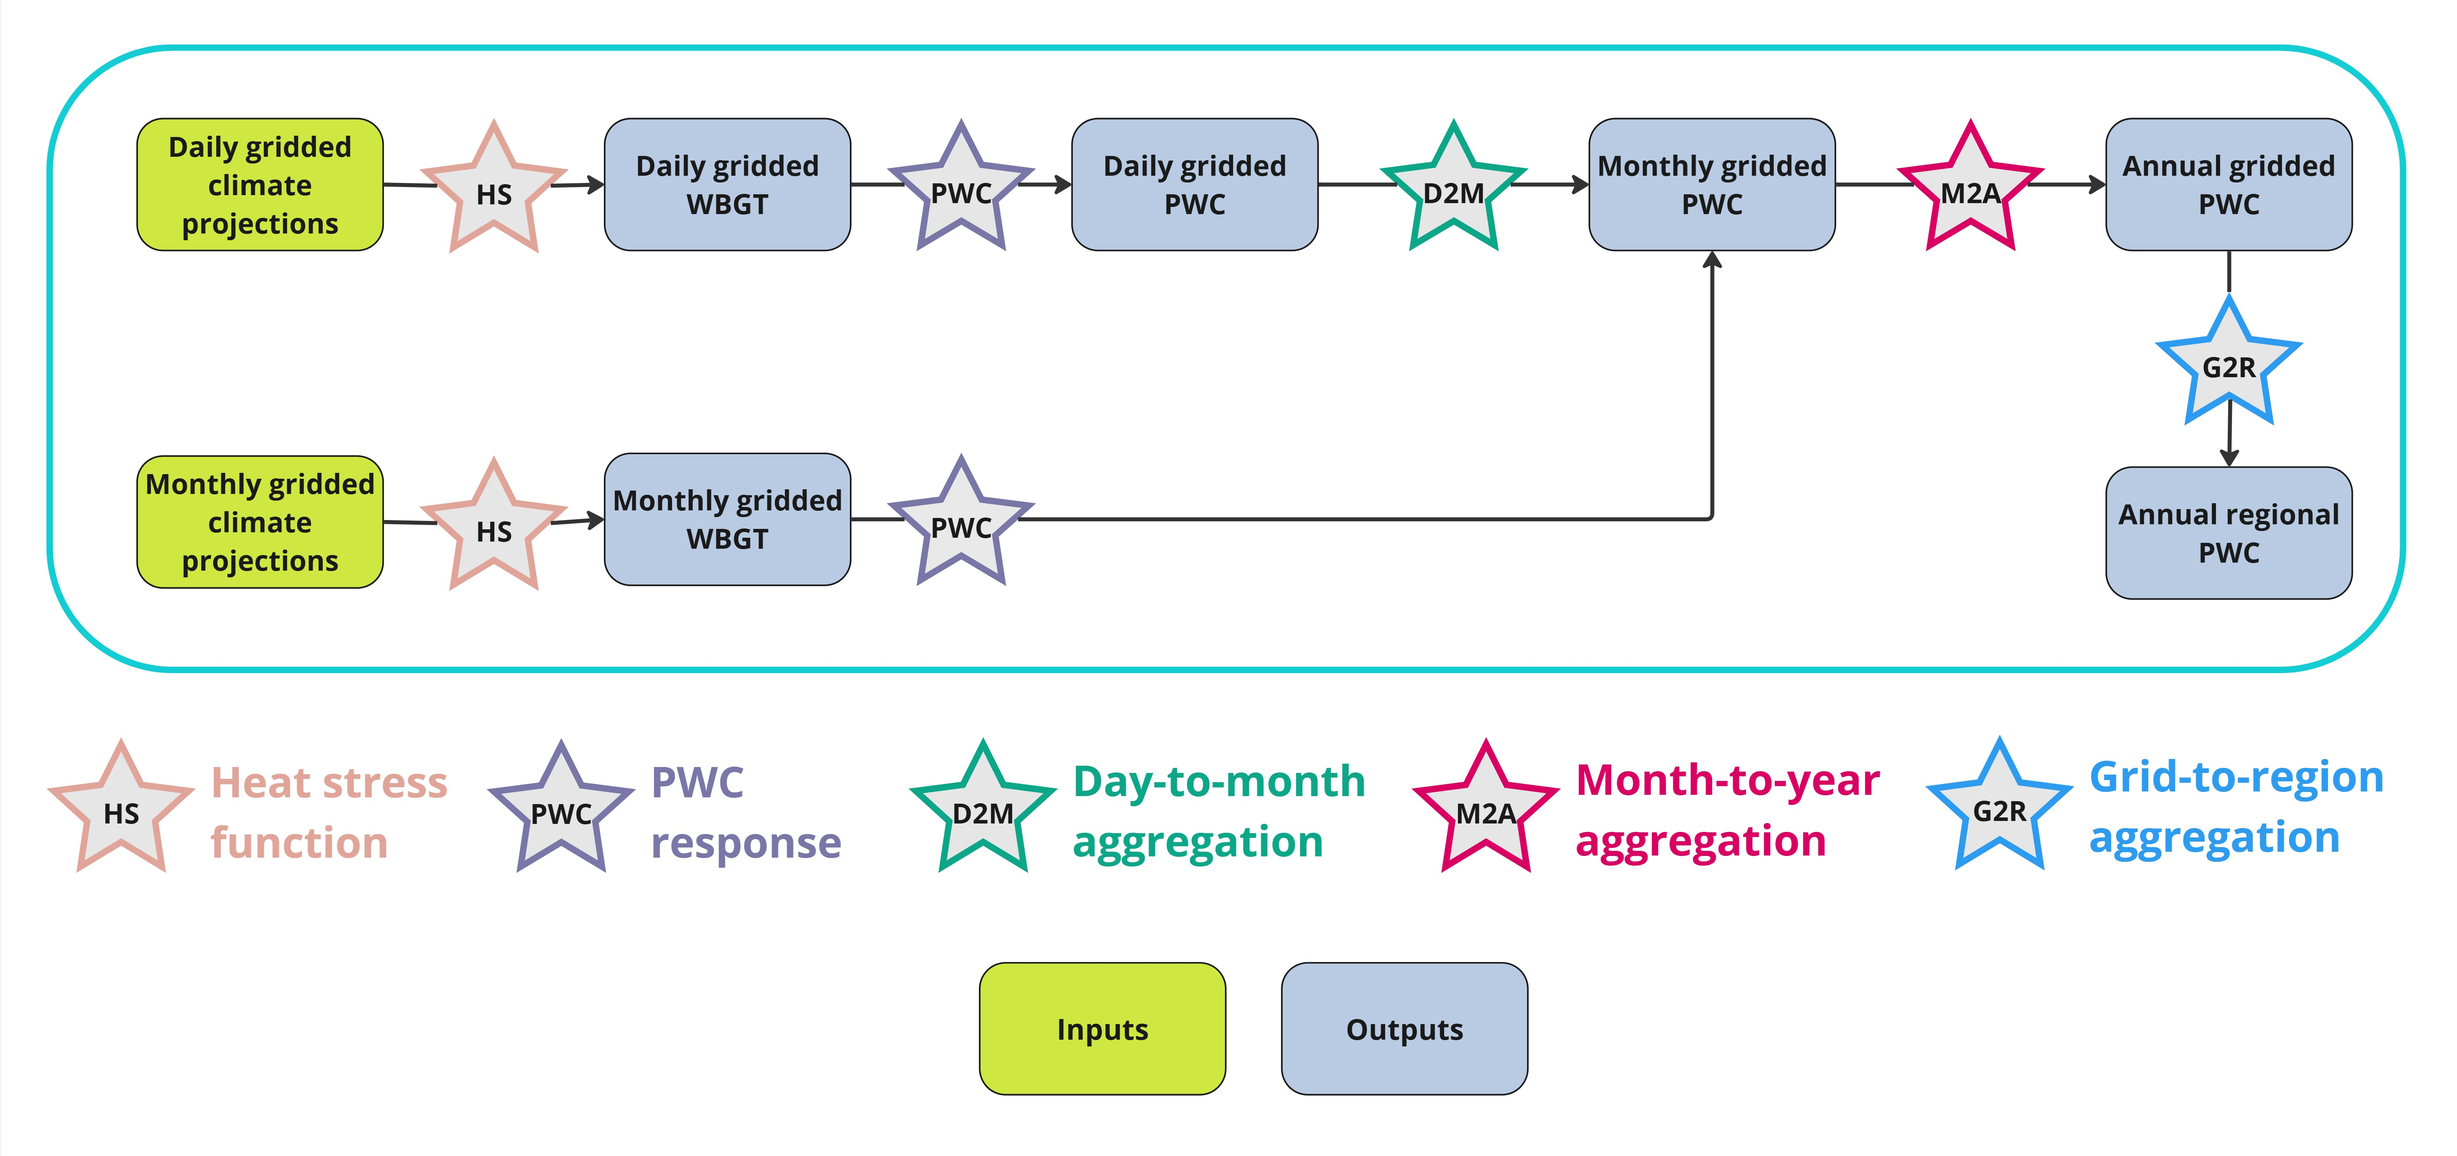
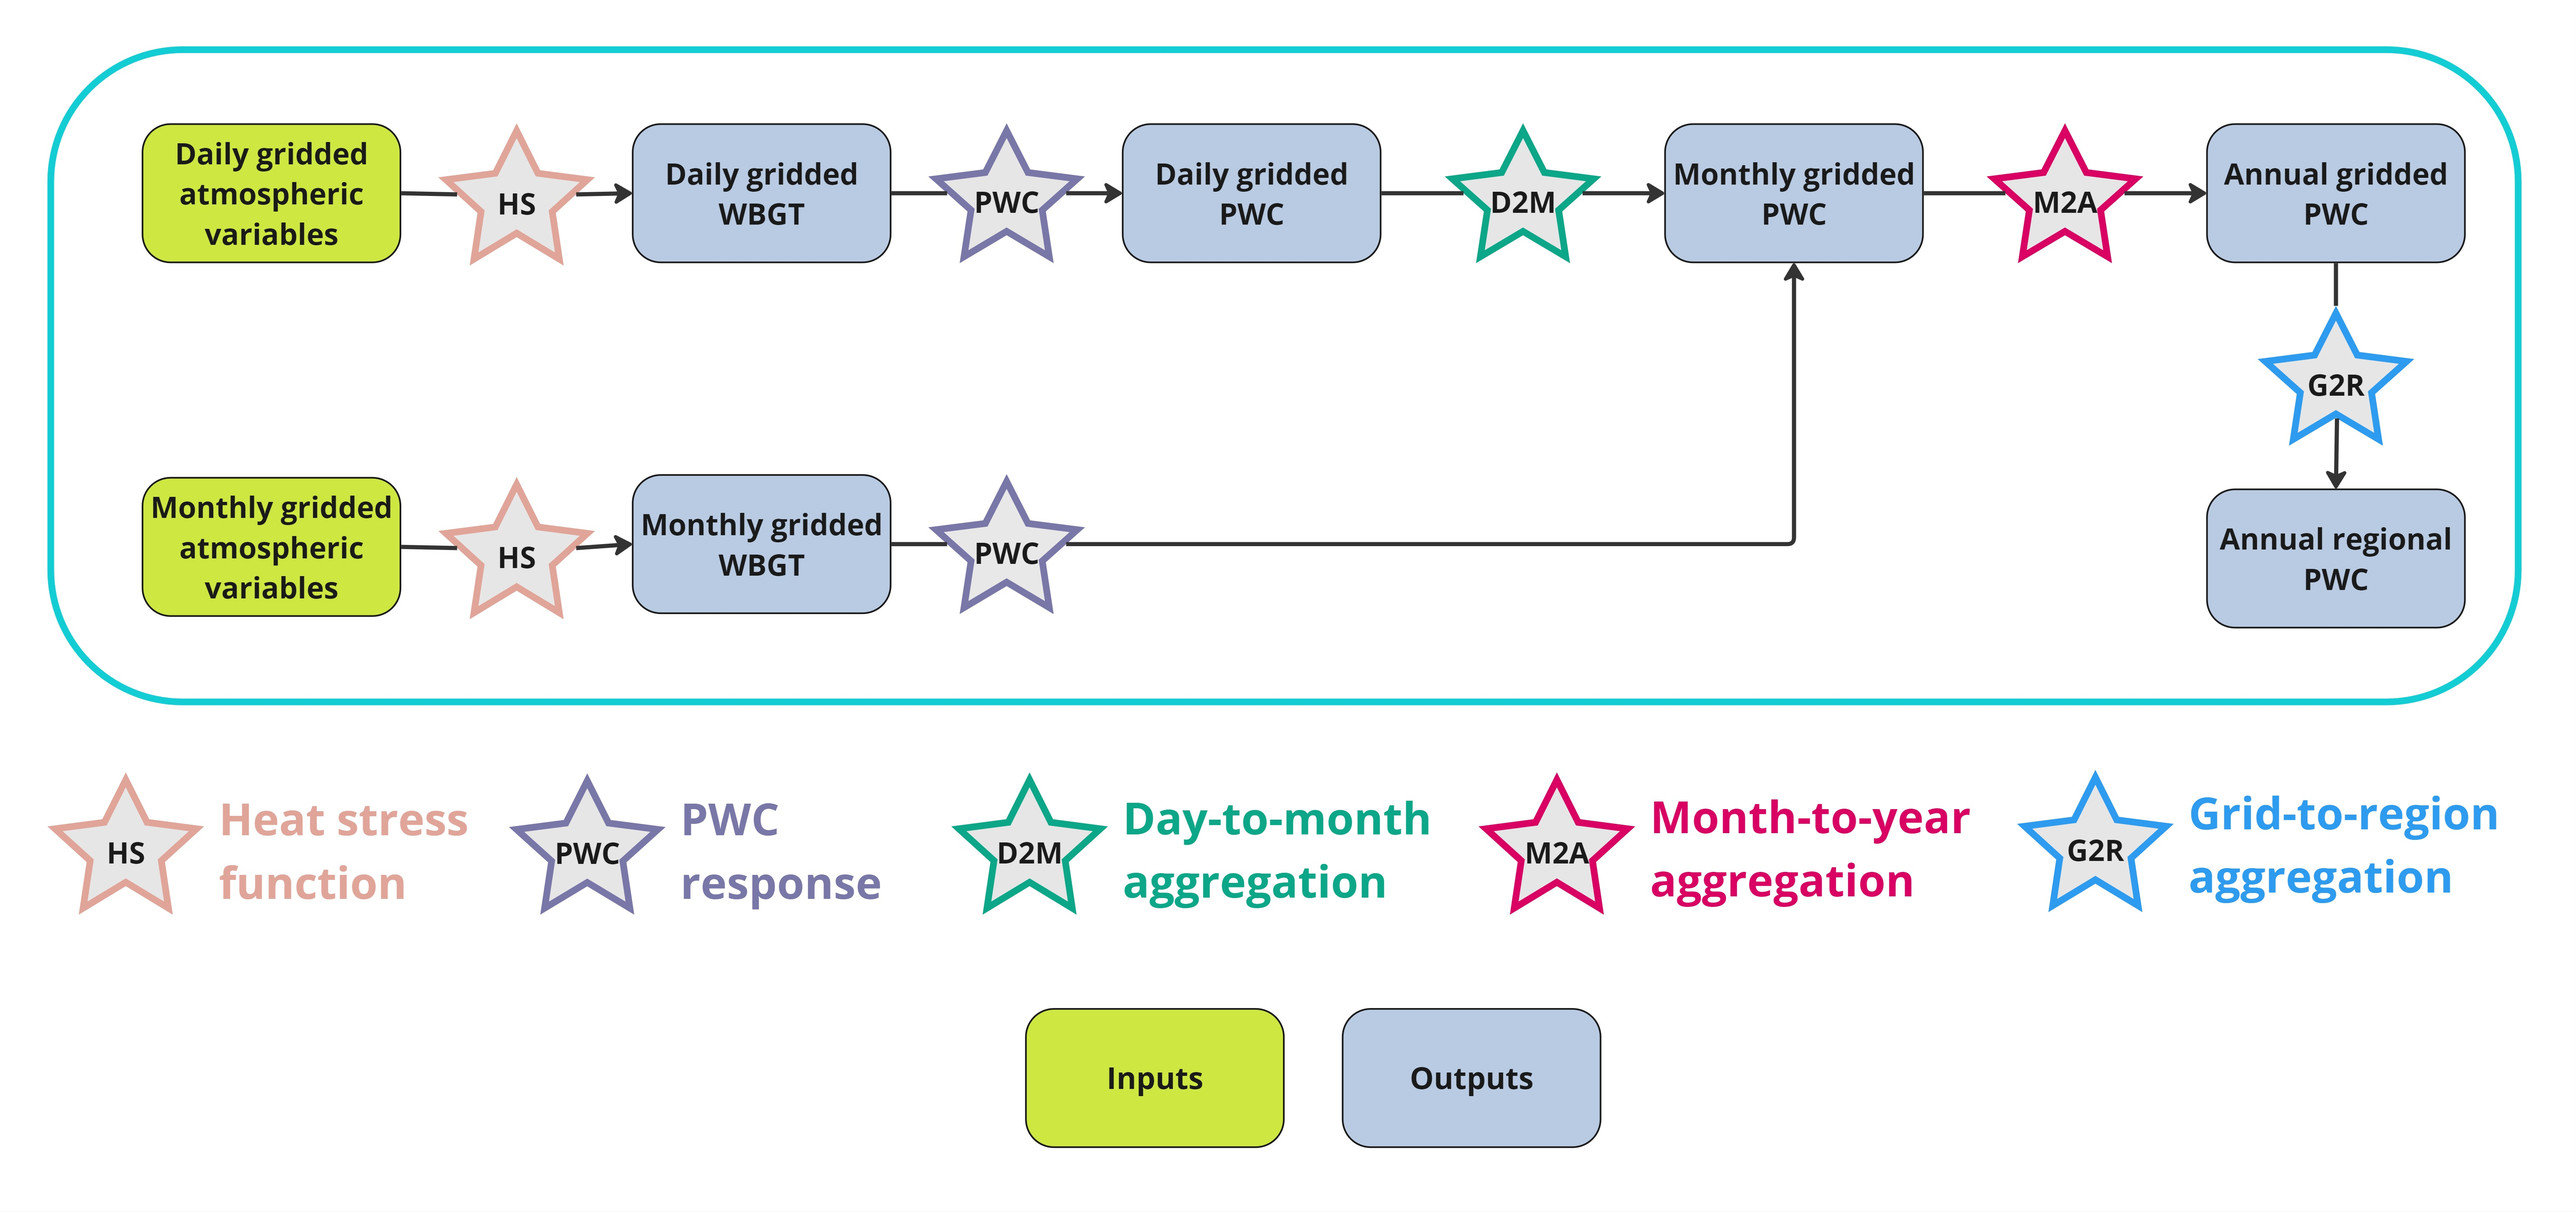
minor working update

diff --git a/paper/paper.md b/paper/paper.md
@@ -36,7 +36,7 @@ affiliations:
 
 # Summary
 
-Labor productivity, especially in outdoor sectors like primary agriculture, is highly sensitive to weather variations and heat stress. Understanding how labor productivity responds to key heat stress factors, such as temperature and humidity, is essential for evaluating future climate scenarios and their multisectoral dynamic (MSD) impacts. However, global economic and MSD modeling often operate at more aggregate temporal and spatial resolutions than those of climate projections. This resolution disparity highlights the need for tools to connect the fine-scale insights of climate models with the more aggregate scales of economic models. The HELPS R package is designed to generate high-quality data on biophysical labor productivity losses due to heat stress, tailored for modeling applications. HELPS processes high-resolution atmospheric data to calculate heat stress metrics, such as Wet-Bulb Globe Temperature (WBGT) and translates them into physical work capacity (PWC) estimates across various scenarios. The package further provides functions to aggregate data temporally and spatially, incorporating crop calendars and harvested area information to provide relevant measures of heat-induced PWC losses for labor in agricultural sectors. We demonstrate the application of HELPS by generating regional heat-induced agricultural labor productivity losses for major crop sectors, which serve as input data for the Global Change Analysis Model (GCAM), enabling more comprehensive evaluations of climate impacts on agriculture systems. While HELPS is designed to support MSD modeling needs, users can customize output to benefit a broad set of research applications.
+Labor productivity, especially in outdoor sectors like primary agriculture, is highly sensitive to weather variations and heat stress. Understanding how labor productivity responds to key heat stress factors, such as temperature and humidity, is essential for evaluating future climate scenarios and their multisectoral dynamic (MSD) impacts. However, global economic and MSD modeling often operate at more aggregate temporal and spatial resolutions than Earth System Models. This resolution disparity highlights the need for tools to connect the fine-scale insights of Earth System Models with the more aggregate scales of economic models. The HELPS R package is designed to generate high-quality data on biophysical labor productivity losses due to heat stress, tailored for modeling applications. HELPS processes high-resolution atmospheric data to calculate heat stress metrics, such as Wet-Bulb Globe Temperature (WBGT) and translates them into physical work capacity (PWC) estimates across various scenarios. The package further provides functions to aggregate data temporally and spatially, incorporating crop calendars and harvested area information to provide relevant measures of heat-induced PWC losses for labor in agricultural sectors. We demonstrate the application of HELPS by generating regional heat-induced agricultural labor productivity losses for major crop sectors, which serve as input data for the Global Change Analysis Model (GCAM), enabling more comprehensive evaluations of climate impacts on agriculture systems. While HELPS is designed to support MSD modeling needs, users can customize output to benefit a broad set of research applications.
 
 # Statement of need
 
@@ -48,9 +48,9 @@ HELPS fills this gap by introducing relevant datasets for meaningful temporal an
 
 # Features
 
-![HELPS package schematic. HELPS can process daily and monthly 0.5-degree grid-level input data. Stars denote package functions.](Schematic.jpg)
+![HELPS package schematic. HELPS processes daily and monthly input data at 0.5-degree grid resolution. Stars denote package functions.](Schematic.jpg)
 
-HELPS processes daily or monthly 0.5-degree grid-level climate projections to generate outputs that suit various research needs with 5 key functions (Figure 1). The HeatStress function translates atmospheric variables into heat stress levels, and it includes a sector argument to filter and keep relevant grids for a specific sector. For example, Figure 2.a presents grid-level WBGT for grids with rain-fed maize harvested area. The PWC function further translates the heat stress level to the PWC (Figure 2.b). The DAY2MON function aggregates daily values into monthly means (Figure 2.c), and the MON2ANN function further aggregates monthly values into annual means, incorporating monthly weights aligned with the sector's production cycle (Figure 2.d). Grid-level outputs from HELPS can be further aggregated to user-defined regional levels using the G2R function.
+HELPS processes daily or monthly 0.5-degree grid-level atmospheric projections from Earth System Models to generate outputs that tailored to diverse research needs through five key functions (Figure 1). The HeatStress function translates atmospheric variables into heat stress levels, and it includes a sector argument to filter and keep relevant grids for a specific sector. For example, Figure 2.a presents grid-level WBGT for grids with rain-fed maize harvested area. The PWC function further translates the heat stress level to the PWC (Figure 2.b). The DAY2MON function aggregates daily values into monthly means (Figure 2.c), and the MON2ANN function further aggregates monthly values into annual means, incorporating monthly weights aligned with the sector's production cycle (Figure 2.d). Grid-level outputs from HELPS can be further aggregated to user-defined regional levels using the G2R function.
 
 ![Example plots of outputs from the HELPS package. (a) daily grid-level WBGT for rain-fed maize labor on 2024-07-01. When WBGT is greater than 25 degrees, human physical work capacity (PWC) starts to decrease WBGT = 25 is in grey, above 25 is in red, and below 25 is in purple; (b-d) grid-level heat-induced PWC loss for rain-fed maize labor, at daily (b), monthly (c), and annual (d) levels. Grids shown in panels b-d are grids with rain-fed maize harvested area.](Figure2.jpg)
 
